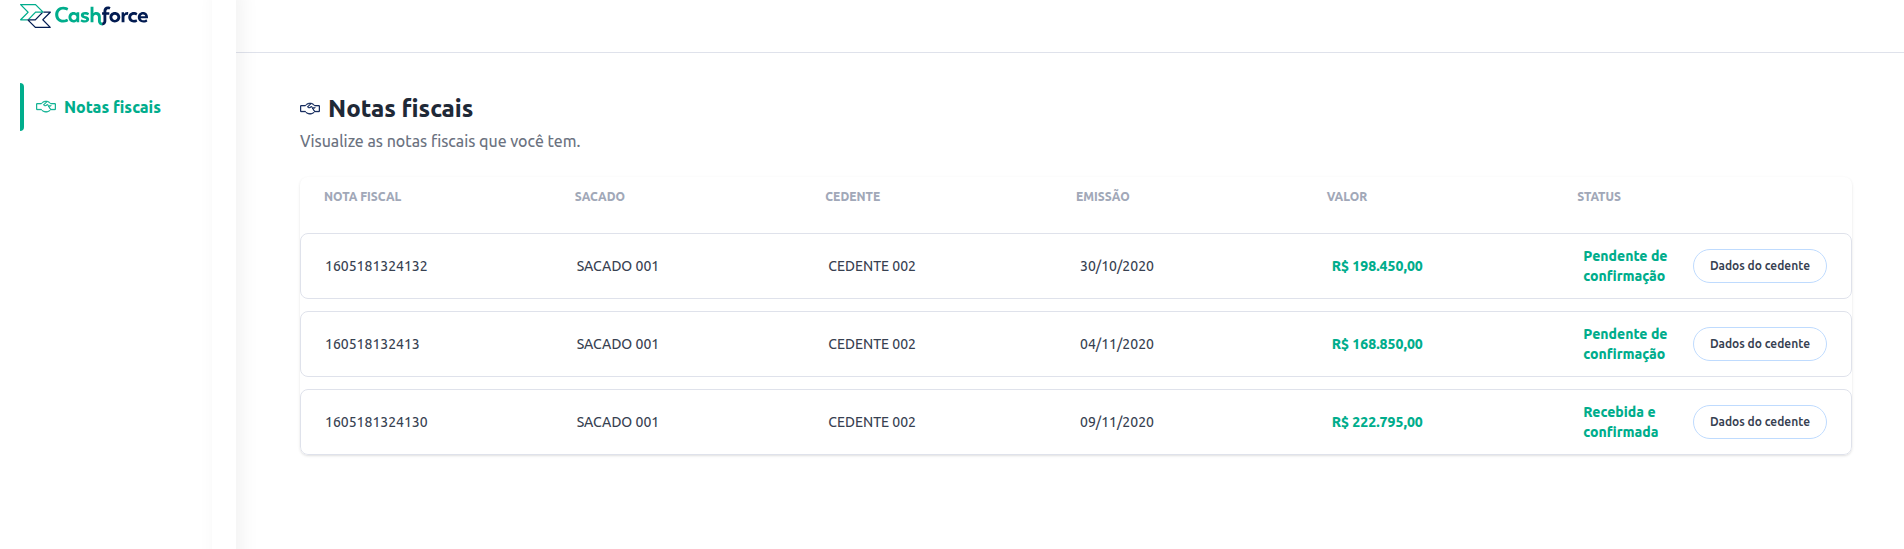
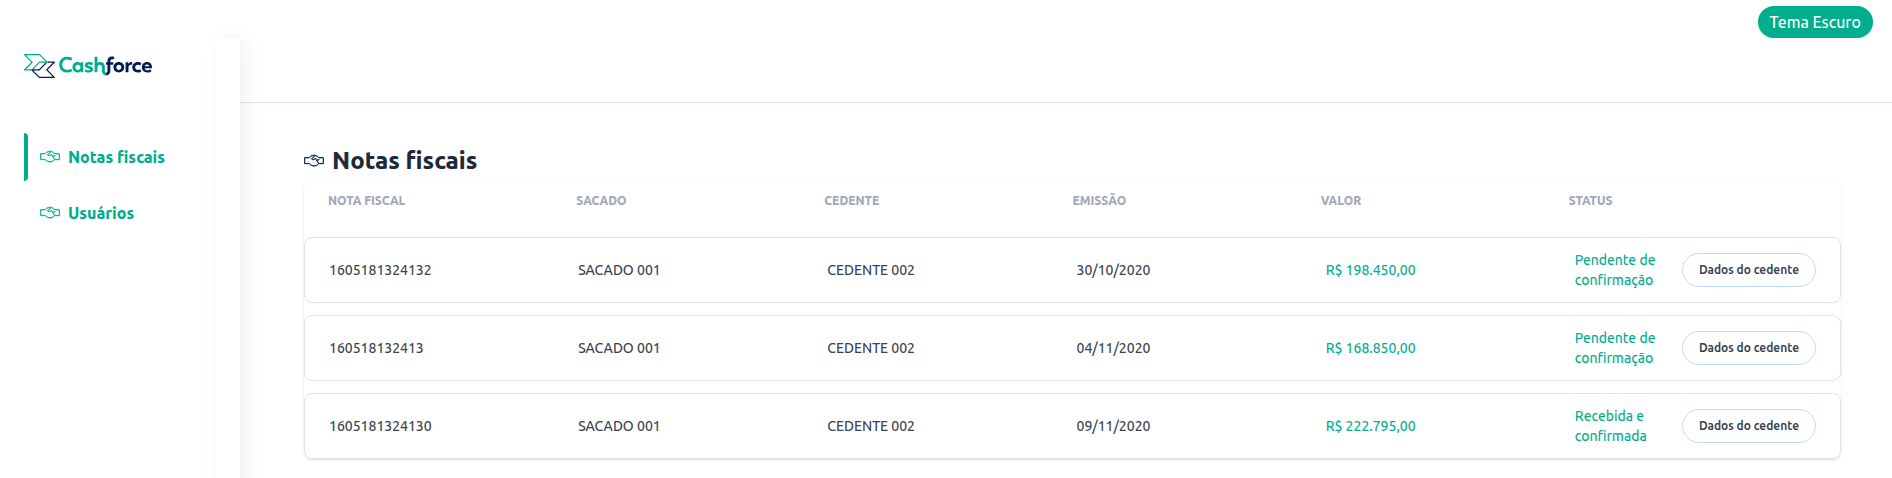
Updating Readme.

diff --git a/README.md b/README.md
@@ -23,6 +23,7 @@ Este projeto é uma aplicação fullstack desenvolvida como parte de um desafio 
 - Documentação da API com Swagger
 - Testes com Jest e Supertest
 - Cobertura completa dos principais fluxos da API
+- CRUD completo de usuários**
 
 ### ✅ Frontend (Vue.js + Vite)
 
@@ -38,6 +39,14 @@ Este projeto é uma aplicação fullstack desenvolvida como parte de um desafio 
 - Estilização com Tailwind CSS
 - Testes com Vitest + Vue Test Utils
 - Alta cobertura dos componentes principais
+- Tema claro e tema escuro
+- Paginação
+- Filtro por nome de usuário
+- Gerenciamento de usuários
+  - listagem de usuários
+  - Criando registro do usuário
+  - Atualizando registro do usuário
+  - Deletando registro do usuário
 
 ---
 
@@ -80,7 +89,7 @@ A aplicação estará disponível em `http://localhost:5173`.
 Caso deseje rodar o projeto localmente, lembre-se de alternar entre o backend local e remoto no seguinte arquivo do Frontend:
 
 ```js
-// src/services/orderService.js
+// src/services/api.js
 ```
 
 #### 🔁 Troque esta linha:
@@ -101,23 +110,45 @@ const API_URL = 'http://localhost:3000';
 
 ### Backend
 
+```bash
+yarn test:coverage
+
+# ou
+
+test:watch
+
 - Testes com Jest e Supertest
 - Testes de `/orders` com verificação de status e mapeamento
+- Testes de `/users` com verificação de status e mapeament
 - Cobertura alta dos casos de sucesso e falha
+
+#### Rodar testes com cobertura:
+
+```bash
+yarn test:coverage
+
+# ou
+
+test:watch
+```
+### 🧪 Cobertura de Testes
+
+![Cobertura Backend](/frontend/src/assets/cobertura-test-back.png)
 
 ### Frontend
 
-- Testes unitários e de integração
-- `OrderRow.vue`, `Home.vue`, `Sidebar.vue`
-- Cobertura atual superior a **69%**
-
 ```bash
-yarn test
-# ou
 yarn test:unit
-yarn test:unit2 # com coverage
-```
 
+yarn test:unit2 # com coverage
+
+- Testes unitários e de integração
+- `OrderRow.vue`, `Home.vue`, `Sidebar.vue`, `BaseRow.vue`, `TransferorDetails.vue`.
+
+```
+### 🧪 Cobertura de Testes
+
+![Cobertura Frontend](/frontend/src/assets/cobertura-test-front.png)
 ---
 
 ## 📄 Swagger
@@ -129,8 +160,6 @@ http://localhost:3000/api-docs
 
 https://cashforce-production.up.railway.app/api-docs/
 ```
-
----
 
 ## 🖼 Imagens
 
